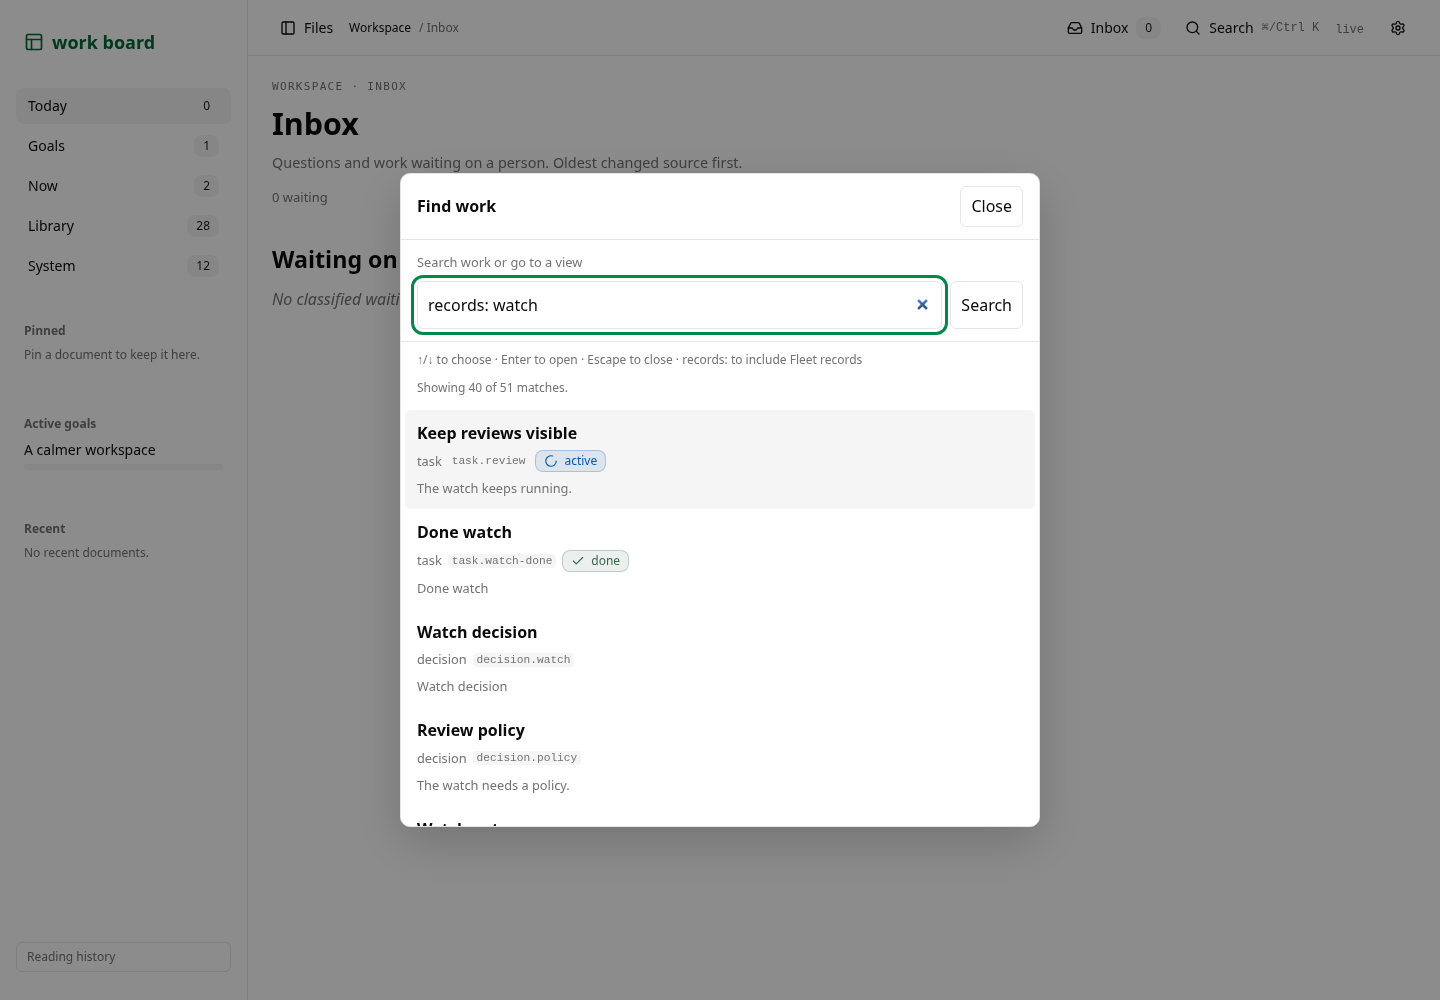
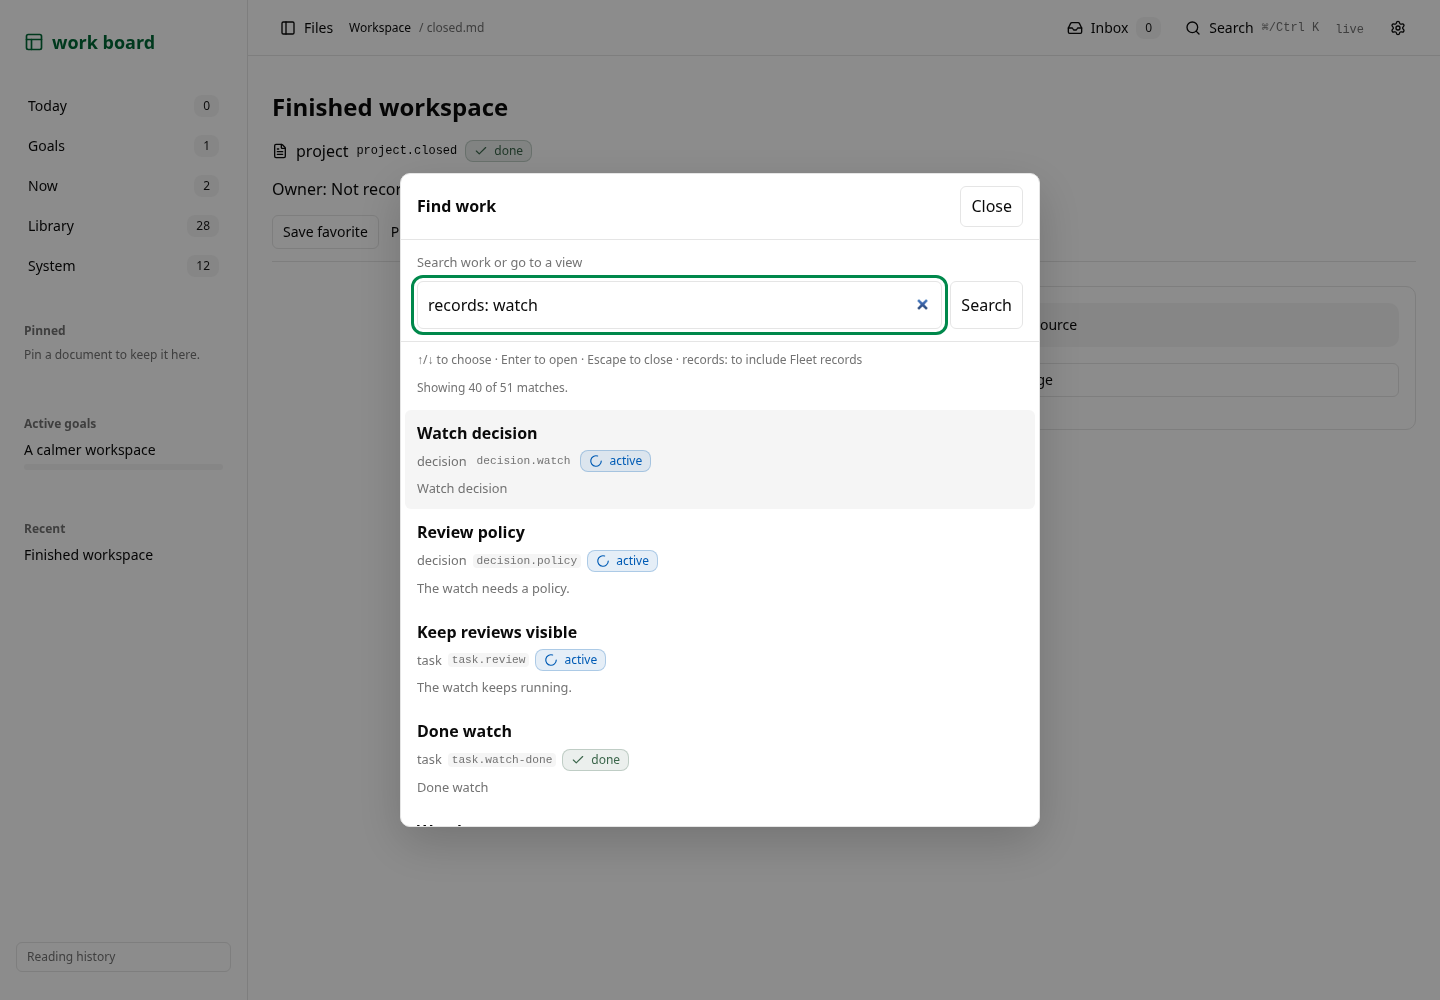
Deduplicate palette destinations and share item ranking

diff --git a/packages/work-board/src/client/react/fleetSearch.dom.spec.tsx b/packages/work-board/src/client/react/fleetSearch.dom.spec.tsx
@@ -39,21 +39,12 @@ it("puts open body matches and done items before headings, includes Fleet status
 	try {
 		for (const query of ["watch", "records: watch"]) {
 			type(query);
-			await eventually(() => expect(rows()[0]?.getAttribute("href")).toBe("/_board/item/task.review/"));
-			if (query.startsWith("records:")) {
-				await eventually(() => expect(rows()[2]?.querySelector("code")?.textContent).toBe("decision.watch"));
-			}
-			expect(
-				rows()
-					.slice(0, 2)
-					.map((row) => row.querySelector("strong")?.textContent),
-			).toEqual(["Keep reviews visible", "Done watch"]);
-			expect(
-				rows()
-					.slice(0, 2)
-					.map((row) => row.querySelector("[data-status-token]")?.textContent),
-			).toEqual(["active", "done"]);
-			expect(rows()[0]?.querySelector("p")?.textContent).toBe("The watch keeps running.");
+			const records = query.startsWith("records:");
+			await eventually(() => expect(rows()[0]?.querySelector("code")?.textContent).toBe(records ? "decision.watch" : "task.review"));
+			const work = rows().filter((row) => row.querySelector("code")?.textContent?.startsWith("task."));
+			expect(work.slice(0, 2).map((row) => row.querySelector("strong")?.textContent)).toEqual(["Keep reviews visible", "Done watch"]);
+			expect(work.slice(0, 2).map((row) => row.querySelector("[data-status-token]")?.textContent)).toEqual(["active", "done"]);
+			expect(work[0]?.querySelector("p")?.textContent).toBe("The watch keeps running.");
 			expect(rows().some((row) => row.querySelector("strong")?.textContent === "Watch notes")).toBe(true);
 			const hrefs = rows().map((row) => row.getAttribute("href"));
 			expect(new Set(hrefs).size).toBe(hrefs.length);
@@ -63,8 +54,8 @@ it("puts open body matches and done items before headings, includes Fleet status
 					rows()
 						.slice(0, 4)
 						.map((row) => row.querySelector("strong")?.textContent),
-				).toEqual(["Keep reviews visible", "Done watch", "Watch decision", "Review policy"]);
-				expect(rows()[3]?.querySelector("p")?.textContent).toBe("The watch needs a policy.");
+				).toEqual(["Watch decision", "Review policy", "Keep reviews visible", "Done watch"]);
+				expect(rows()[1]?.querySelector("p")?.textContent).toBe("The watch needs a policy.");
 				expect(recordRows.length).toBeGreaterThan(0);
 				expect(hrefs.findIndex((href) => href?.startsWith("/responses/fleet-report."))).toBeGreaterThan(1);
 				expect(hrefs.findIndex((href) => href?.startsWith("/fleet/status.md"))).toBeGreaterThan(1);

diff --git a/packages/work-board/src/server/search/ranking.spec.ts b/packages/work-board/src/server/search/ranking.spec.ts
@@ -4,17 +4,17 @@ import { fixtureSnapshot } from "#test/fixtureSnapshot.ts";
 import { fleetItemRankingFixture, identityRankingFixture, searchRankingFixture } from "#test/searchRankingFixture.ts";
 import { searchMatch } from "./match.ts";
 
-it.live("ranks opted-in Fleet decision items after ordinary work but before every heading or passage", function* () {
+it.live("ranks all items by status, title/ID relevance and recency before every heading or passage", function* () {
 	const { files, modified } = fleetItemRankingFixture();
 	const snapshot = yield* fixtureSnapshot(files, undefined, modified);
 	const results = searchMatch(snapshot.entries, "records: watch", snapshot.modified).results;
 	expect(results.slice(0, 4).map((entry) => [entry.kind, entry.id])).toEqual([
-		["document", "task.review"],
-		["document", "task.watch-done"],
 		["document", "decision.watch"],
 		["document", "decision.policy"],
+		["document", "task.review"],
+		["document", "task.watch-done"],
 	]);
-	expect(results[3]?.snippet).toBe("The watch needs a policy.");
+	expect(results[1]?.snippet).toBe("The watch needs a policy.");
 	expect(results.slice(4).every((entry) => entry.kind !== "document" || !entry.itemKind)).toBe(true);
 	expect(results.some((entry) => entry.kind === "heading" && !entry.record)).toBe(true);
 	expect(results.some((entry) => entry.kind === "passage" && !entry.record)).toBe(true);

diff --git a/packages/work-board/src/client/react/palette.dom.spec.tsx b/packages/work-board/src/client/react/palette.dom.spec.tsx
@@ -73,8 +73,13 @@ it("offers go-to views and open goals, ranks a matching command first and shows 
 		type("workspace");
 		await eventually(() => expect(rows()[0]?.querySelector("strong")?.textContent).toBe("Open workspace"));
 		expect(rows().findIndex((row) => row.querySelector("strong")?.textContent === "A calmer workspace")).toBeGreaterThan(0);
-		type("project.workspace");
-		await eventually(() => expect(rows()[0]?.querySelector("strong")?.textContent).toBe("Go to A calmer workspace"));
+		for (const query of ["project.workspace", "calmer"]) {
+			type(query);
+			await eventually(() => expect(rows()[0]?.querySelector("strong")?.textContent).toBe("Go to A calmer workspace"));
+			const destinations = rows().map((row) => row.getAttribute("href"));
+			expect(new Set(destinations).size).toBe(destinations.length);
+			expect(destinations.filter((href) => href === "/_board/item/project.workspace/")).toHaveLength(1);
+		}
 		type("Library");
 		await eventually(() => expect(rows()[0]?.getAttribute("href")).toBe("/_board/library"));
 		type("theme");

diff --git a/packages/work-board/src/client/react/SearchPalette.tsx b/packages/work-board/src/client/react/SearchPalette.tsx
@@ -31,7 +31,20 @@ export function SearchPalette({
 	const goals = useQuery(api.goals.query());
 	const commands = matchingCommands(Option.getOrUndefined(goals.data)?.goals ?? [], text);
 	const editing = input.trim() !== text;
-	const items = editing ? [] : [...commands, ...(text && data ? data.results : [])];
+	const destinations = new Set<string>();
+	const items = editing
+		? []
+		: [...commands, ...(text && data ? data.results : [])].filter((item: SearchItem) => {
+				const destination = item.href ?? item.command;
+				if (!destination) {
+					return true;
+				}
+				if (destinations.has(destination)) {
+					return false;
+				}
+				destinations.add(destination);
+				return true;
+			});
 	useEffect(() => {
 		setSelected((current) => Math.min(current, Math.max(0, items.length - 1)));
 	}, [items.length]);

diff --git a/packages/work-board/src/test-support/searchRankingFixture.ts b/packages/work-board/src/test-support/searchRankingFixture.ts
@@ -66,7 +66,7 @@ export function fleetRankingFixture() {
 }
 export function fleetItemRankingFixture() {
 	const { files, modified } = fleetRankingFixture();
-	const decision = inboxFixture()["responses/decision.md"] ?? "";
+	const decision = (inboxFixture()["responses/decision.md"] ?? "").replace("kind: decision", "kind: decision\nstatus: active");
 	return {
 		files: {
 			...files,

diff --git a/packages/work-board/src/server/search/match.ts b/packages/work-board/src/server/search/match.ts
@@ -7,9 +7,9 @@ function normalize(text: string): string {
 
 function resultType(entry: Entry): number {
 	if (entry.kind === "document" && entry.itemKind) {
-		return entry.record ? 1 : 0;
+		return 0;
 	}
-	return entry.record ? 3 : 2;
+	return entry.record ? 2 : 1;
 }
 
 function relevance(entry: Entry, terms: readonly string[], phrase: string, text: string) {

diff --git a/packages/work-board/changes/work-search.md b/packages/work-board/changes/work-search.md
@@ -5,4 +5,4 @@
 ### Fixed
 
 - Search ranks items before headings and passages, open work before closed and deferred work, then title and ID matches before body matches and recently changed sources before older ones. Fleet records, including `fleet/status.md` and `responses/fleet-report.*`, require `records:`. Snippets omit structured metadata, each anchor appears once, and rows without a recorded status omit the status chip.
-- With `records:`, Fleet item results follow ordinary work and precede all heading and passage hits, including when only the item's body matches.
+- With `records:`, Fleet and ordinary item results share the same status, relevance and recency ordering before every heading and passage hit, including when only the item's body matches. Matching go-to commands replace item results with the same destination.
